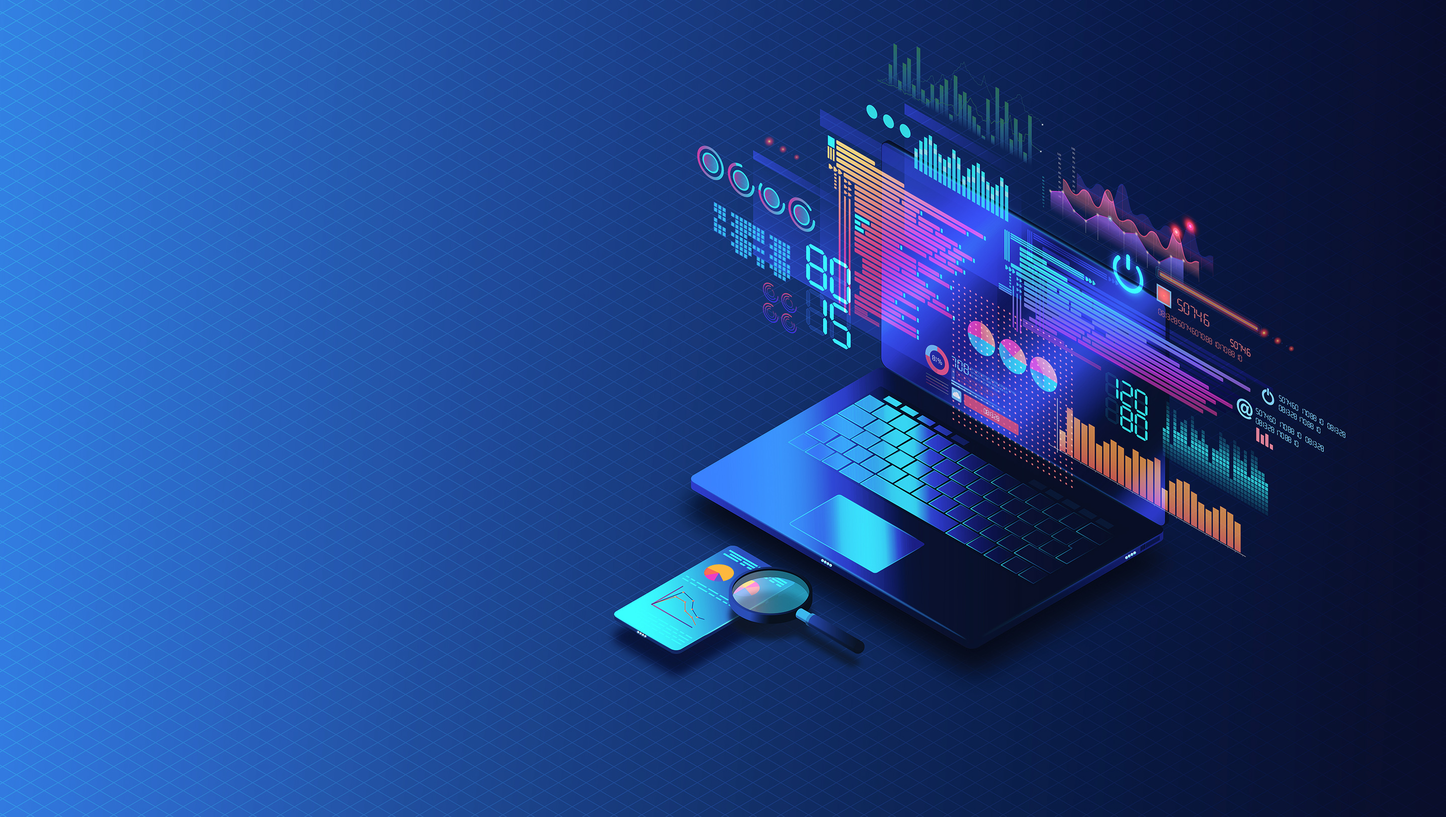
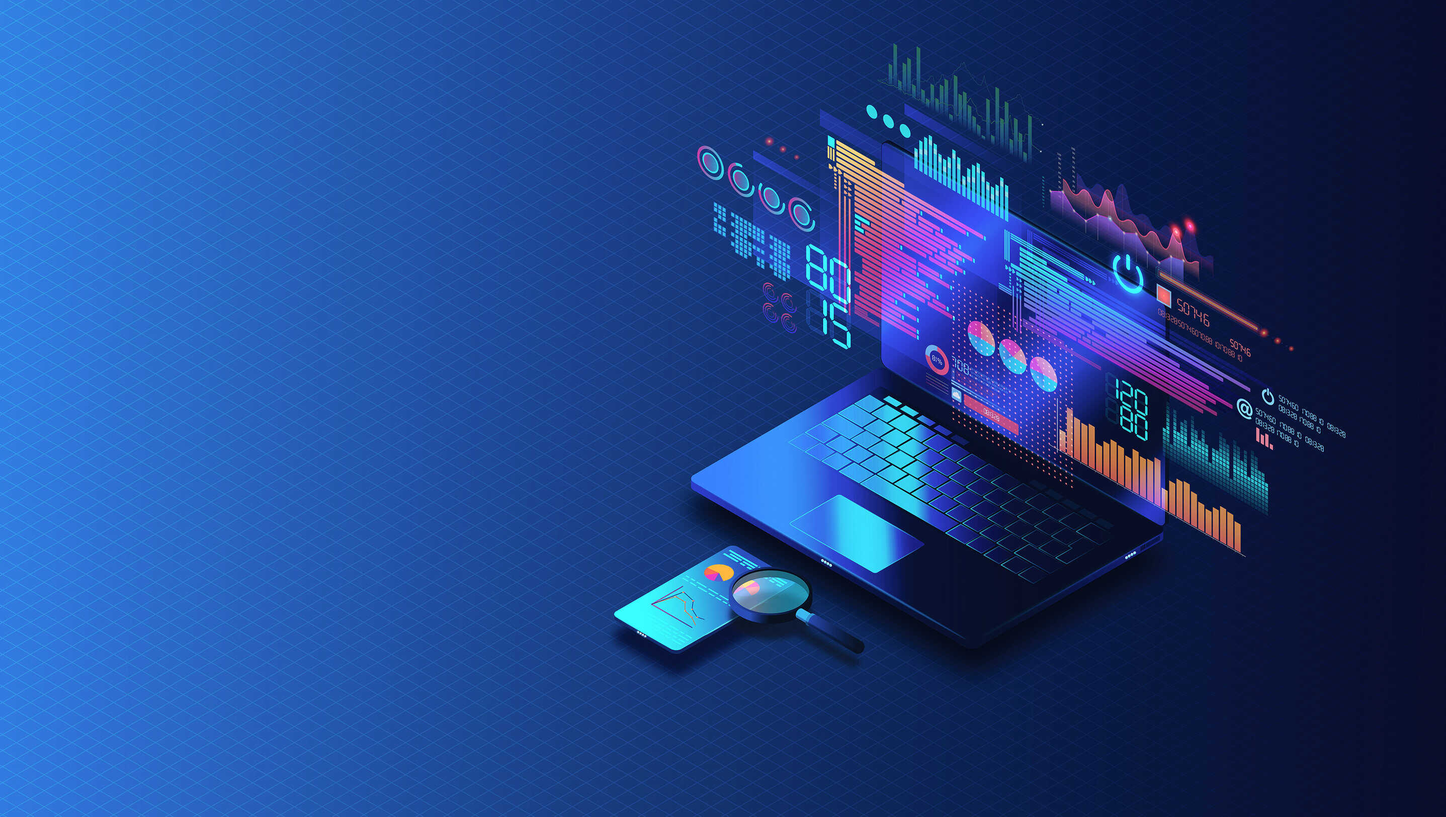
Misc UI fix (#49)
* Removed 'to send test data' section

* Fix 'SigLens vs CH' Blog Link

* Content FIx

* Reduce Size of Image

diff --git a/index.html b/index.html
@@ -158,7 +158,7 @@
                 <div class="col-md-6">
                   <h3>Full Text Search</h3>
                   <p>
-                    Search on any field and any sub-text of your log line. Support for wildcard and regex support.
+                    Search on any field and any sub-text of your log line. Support for wildcard and regex.
                   </p>
                 </div>
               </div>
@@ -181,7 +181,7 @@
                 <div class="col-md-6">
                   <h3>Fast Ingestion</h3>
                   <p>
-                    Innovative MicroIndexing lets your index at lightening fast speeds.
+                    Innovative MicroIndexing lets you index at lightening fast speeds.
                   </p>
                 </div>
               </div>
@@ -212,7 +212,7 @@
                 <div class="col-md-6">
                   <h3>Fast Install</h3>
                   <p>
-                    Quick 1-min install with multiple methods of installation: Binary, Docker, Helm.
+                    Quick 1-min install with multiple methods of installation: Docker, Helm.
                   </p>
                 </div>
                 <div class="col-md-6">
@@ -226,7 +226,7 @@
                 <div class="col-md-6">
                   <h3>Simple Architecture</h3>
                   <p>
-                    Single binary solution that reduces operational burden and increases reliability
+                    Single binary solution that reduces operational burden and increases reliability.
                   </p>
                 </div>
               </div>
@@ -234,7 +234,7 @@
                 <div class="col-md-6">
                   <h3>Single Pane of Glass</h3>
                   <p>
-                    Single UI, Single Database for logs, metrics and traces.
+                    One UI. One database for logs, metrics and traces.
                   </p>
                 </div>
                 <div class="col-md-6">
@@ -408,21 +408,11 @@
           </div>
         </div>
       </div>
-      <div>
-        <span class="cmd-title">To send test data, run below cmd</span>
-        <div class="code position-relative ingest-Cmd" id="generate-data">
-          <span class="cmd-box" id="cmd-box">curl -Ls https://siglens.com/sendevents.sh | sh</span>
-          <i class="fa-regular fa-clone position-absolute copy-btn" id="copyCmdBtn" data-toggle="tooltip"></i>
-          <svg class="check-mark-data" id="check-mark-data" xmlns="http://www.w3.org/2000/svg" viewBox="0 0 24 24">
-            <polyline points="4 12 9 17 20 6" />
-          </svg>
-        </div>
-      </div>
     </div>
   </section>
 
   <!-- Contribute and Community Section  -->
-  <section class="pt-md-5">
+  <section class="pt-md-0">
     <div class="container position-relative">
       <img src="./assets/gradient-3.svg" alt="" class="light-gradient">
       <div class="row d-flex justify-content-center align-items-center">

diff --git a/blog/allblogs.html b/blog/allblogs.html
@@ -88,7 +88,7 @@
         <div style="display: flex; flex-direction: column; gap: 2rem;" class="container my-5">
             <div class="row">
                 <div class="card mx-auto">
-                    <a href="./sigscalr-vs-clickhouse.html">
+                    <a href="./siglens-54x-faster-than-clickhouse.html">
                         <img class="observability-card-img-top" src="/assets/siglens-vs-clickhouse.png"
                             alt="blog image">
                         <div class="card-body">
